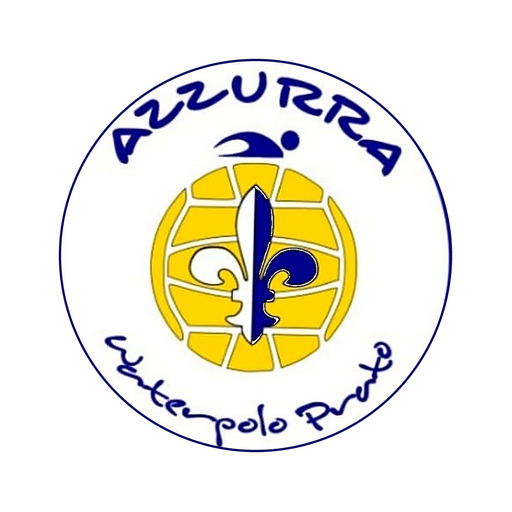
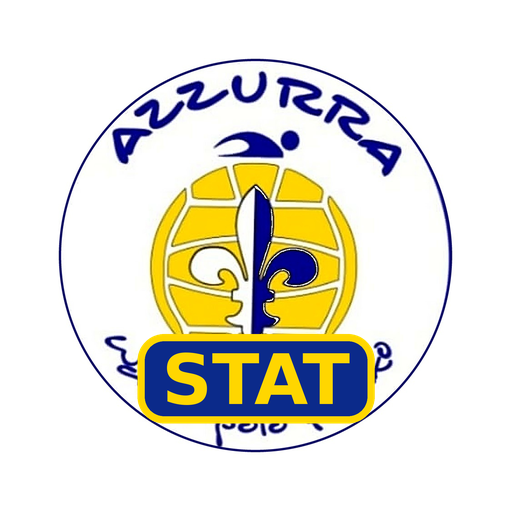
Icona: aggiunta scritta STAT
Claude-Session: https://claude.ai/code/session_01Gz9p9Ae73tt7fwNEnKWUFQ

Changed region(s): [[0.25, 0.625, 0.75, 0.8438]]

diff --git a/sw.js b/sw.js
@@ -1,4 +1,4 @@
-const C='azzurrawp-v2';const F=['./','index.html','manifest.webmanifest','icon-192.png','icon-512.png','icon-mask-192.png','icon-mask-512.png'];
+const C='azzurrawp-v3';const F=['./','index.html','manifest.webmanifest','icon-192.png','icon-512.png','icon-mask-192.png','icon-mask-512.png'];
 self.addEventListener('install',e=>{e.waitUntil(caches.open(C).then(c=>c.addAll(F)));self.skipWaiting()});
 self.addEventListener('activate',e=>{e.waitUntil(caches.keys().then(k=>Promise.all(k.filter(x=>x!==C).map(x=>caches.delete(x)))).then(()=>self.clients.claim()))});
 self.addEventListener('fetch',e=>{if(e.request.method!=='GET')return;
